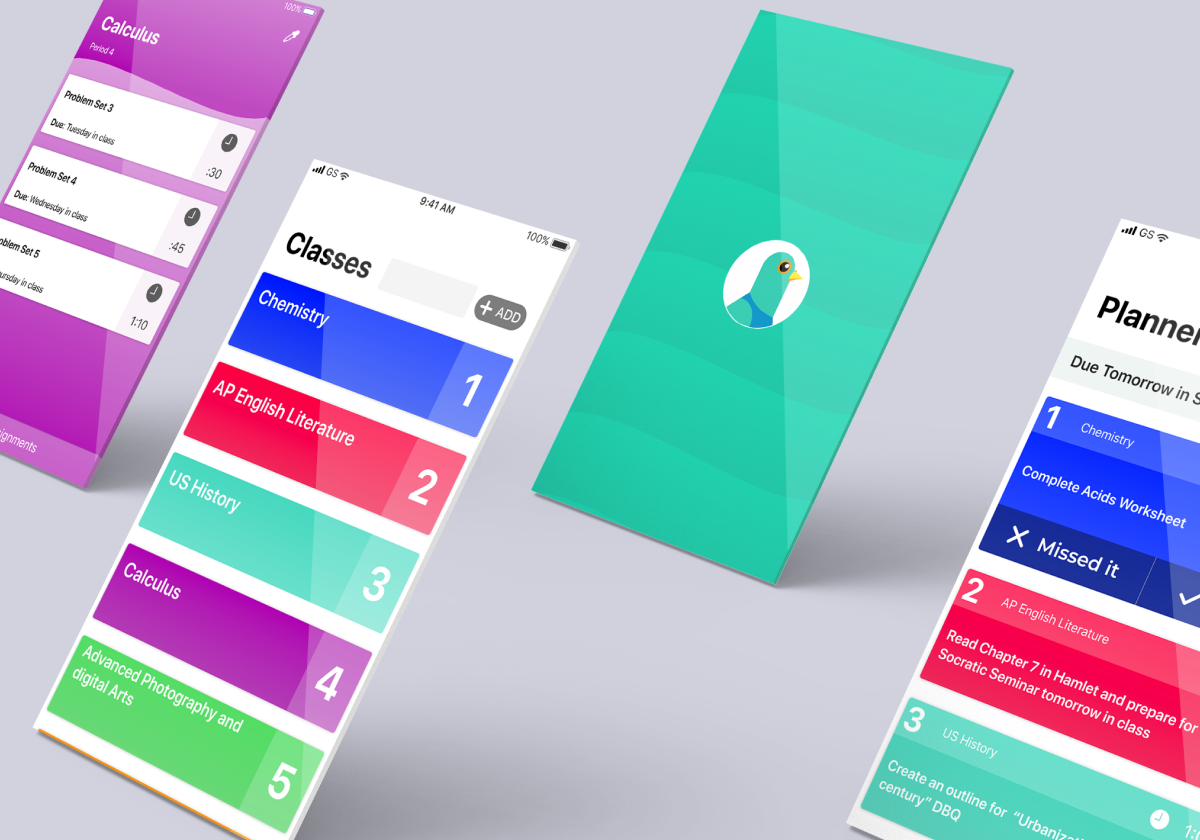
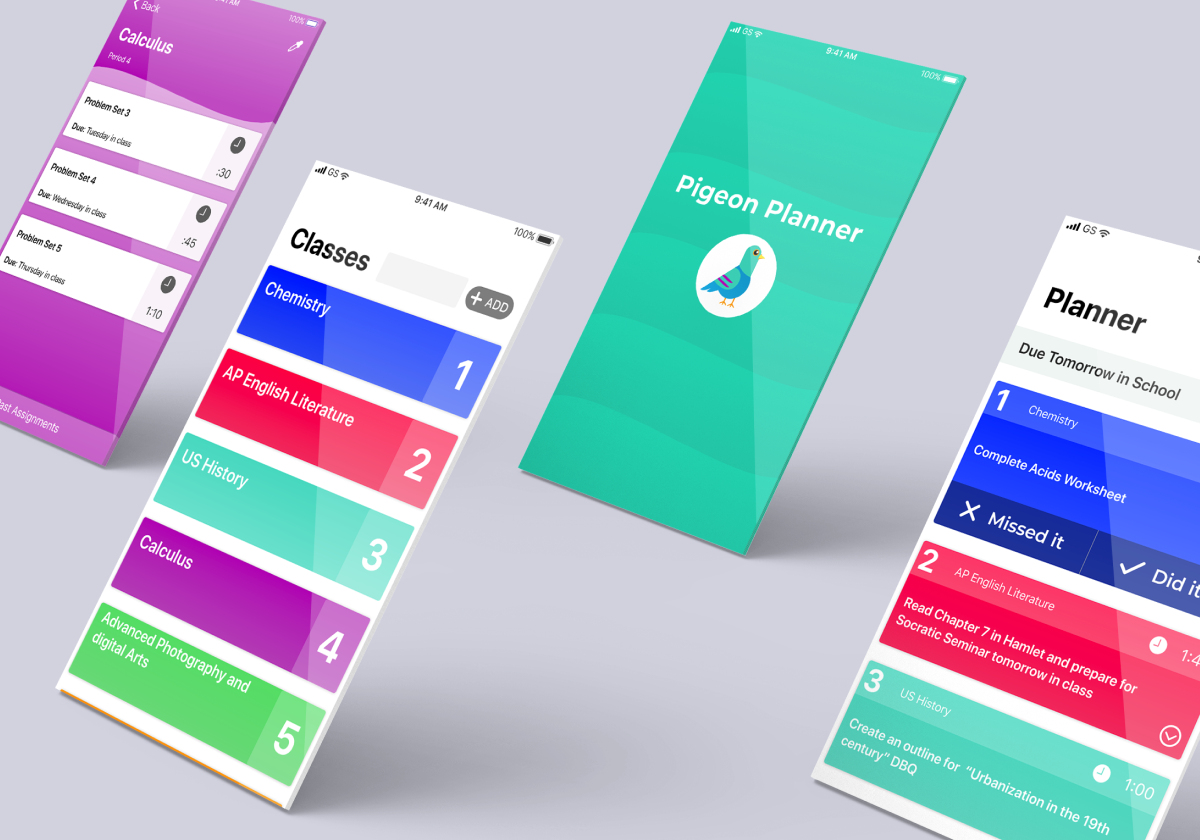
added the rest of the case study

diff --git a/pigeon.html b/pigeon.html
@@ -379,80 +379,77 @@
 					<section class="design">
 						<div class="container">
 		          <h4 class-"section-sub-title">
-		            PROTOTYPE & USER TESTS - IN PROGRESS
+		            PROTOTYPE & USER TESTING
 		          </h4>
-						</div>
-						<br></br>
-						<br></br>
-					</section>
-							<!--
 		          <p>
-		            With a solutions focus, and a direction for branding, I built a high fidelity mockup and did user testing. Refining my visual design though several iterations to get the refined, high quality feel that I desired for this product. <br></br>
+		            With a strong solution mapped through wireframes and a clear direction for the brand, I built high fidelity mockups. I used invision to build a prototype and test the app with students and teachers. <br></br>
 		          </p>
 		          <div class="pain_point">
 		            <ul>
-		              <h5> <strong>Pain Point 1: The Task Bar</strong></h5>
-		                <li>The connection between the tasks in a document and the task list sidebar are not clear.</li>
-		                <li>While it is nice to have the option to see tasks assigned to all users, I want an option to filter tasks to only me.</li>
+		              <h5> <strong>Qualitative Feedback</strong></h5>
+		                <li><strong>Student:</strong> I can finish homework faster than teachers think it will take me.</li>
+		                <li><strong>Teacher:</strong> To build time management skills for students, they should be able to change time estimates for themselves (and add missing time estimates).</li>
 		              <h5> <strong>Solution</strong></h5>
-		                <li>When a tasks is hovered over in the document or in the sidebar it will ‘light up’ in both locations making the connection clear.</li>
-		                <li>Create a filter feature that allows users to filter and sort tasks in the sidebar making it more user friendly and useful.</li>
+		                <li>I added the ability for student to change/add time estimates.</li>
 		            </ul>
 		          </div>
 		      </div>
 		    </section>
 
-			        <div class="pain-point">
-			              <img src="assets/images/pp-task-bar-before.png" alt="Pain Point Before"/>
-			              <i class="ion-arrow-right-a"></i>
-			              <img src="assets/images/pp-task-bar-after.png" alt="Pain Point After"/>
-			        </div>
+						<div class="wireframes-pic broken-up">
+							<div class="row">
+								<div class="col-lg-3">
+									<img src="assets/images/pigeon-time-change-1.png" alt="Checkbox High Fidelity Image"/>
+								</div>
+								<div class="col-lg-3">
+									<img src="assets/images/pigeon-time-change-2.png" alt="Checkbox High Fidelity Image"/>
+								</div>
+								<div class="col-lg-3">
+									<img src="assets/images/pigeon-time-change-3.png" alt="Checkbox High Fidelity Image"/>
+								</div>
+								<div class="col-lg-3">
+									<img src="assets/images/pigeon-time-change-4.png" alt="Checkbox High Fidelity Image"/>
+								</div>
+							</div>
+						</div>
 
 		    <section class="design">
 		      <div class="container">
 		        <div class="pain_point">
 		          <ul>
-		            <h5> <strong>Pain Point 2: The Dashboard</strong></h5>
-		              <li>I don’t know where I can find a menu of options for each file. This required tester to point to menu arrow.</li>
+		            <h5> <strong>Qualititive Feedback</strong></h5>
+		              <li>Teachers want access to student information. They want to see who has enrolled in their classes, whether they have finished the assignment(s) in their class and how much homework students have each night for all classes.</li>
 		            <h5> <strong>Solution</strong></h5>
-		              <li>Simplify the visual design of dashboard and label the menu arrow ‘actions’.</li>
+		              <li>Give teachers access to student information and make the teacher view more comprehensive. </li>
 		          </ul>
 		        </div>
 		      </div>
 		    </section>
 
-			        <div class="pain-point">
-			              <img src="assets/images/pp-dashboard-before.png" alt="Pain Point Before"/>
-			              <i class="ion-arrow-right-a"></i>
-			              <img src="assets/images/pp-dashboard-after.png" alt="Pain Point After"/>
-			        </div>
-
-		    <section class="design">
-		      <div class="container">
-		        <div class="pain_point">
-		          <ul>
-		            <h5> <strong>Pain Point 3: Design is too busy</strong></h5>
-		              <li>Several screens feel very busy, and I’m not sure where to focus.</li>
-		            <h5> <strong>Solution</strong></h5>
-		              <li>Refined visual design and thoughtful use of darkened background with modals.</li>
-		          </ul>
-		        </div>
-		      </div>
-		    </section>
-
-			        <div class="pain-point">
-			              <img src="assets/images/pp-visual-design-before.png" alt="Pain Point Before"/>
-			              <i class="ion-arrow-right-a"></i>
-			              <img src="assets/images/pp-visual-design-after.png" alt="Pain Point After"/>
-			        </div>
+				<div class="wireframes-pic broken-up">
+					<div class="row">
+						<div class="col-lg-3">
+							<img src="assets/images/pigeon-student-info-1.png" alt="Checkbox High Fidelity Image"/>
+						</div>
+						<div class="col-lg-3">
+							<img src="assets/images/pigeon-student-info-2.png" alt="Checkbox High Fidelity Image"/>
+						</div>
+						<div class="col-lg-3">
+							<img src="assets/images/pigeon-student-info-3.png" alt="Checkbox High Fidelity Image"/>
+						</div>
+						<div class="col-lg-3">
+							<img src="assets/images/pigeon-student-info-4.png" alt="Checkbox High Fidelity Image"/>
+						</div>
+					</div>
+				</div>
 
         <section class="design high-fidelity">
           <div class="container">
     				<h4 class-"section-sub-title">
-    					HIGH FIDELITY MOCKUPS
+    					HIGH FIDELITY MOCKUP
     				</h4>
     				<p>
-    					With a solutions focus, and a direction for branding, I built a high fidelity mockup and did user testing. Refining my visual design though several iterations to get the refined, high quality feel that I desired for this product. <br></br>
+    					Taking user feedback into account, I built the final version of Pigeon Planner. <br></br>
     					</p>
 						</div>
 
@@ -460,29 +457,34 @@
 			</div>
 
 			<div class="hifi-prototype">
-				<a href="https://invis.io/UKFN2X8V87X" target="_blank"><input class="btn btn-sub" value="View Prototype"></a>
+				<a href="https://invis.io/NRGYLBK7P2A" target="_blank"><input class="btn btn-sub" value="View Prototype"></a>
 			</div>
 
-    					<div class="hifi-pic">
-								<div class="row">
-									<div class="col-lg-6">
-    								<img src="assets/images/hifi-image-1.png" alt="Checkbox High Fidelity Image"/>
-									</div>
-									<div class="col-lg-6">
-										<div class="row">
-											<div class="col-md-12">
-    										<img src="assets/images/hifi-smallpic-1.png" alt="Checkbox High Fidelity Image"/>
-											</div>
-											<div class="col-md-12">
-    										<img src="assets/images/hifi-smallpic2.png" alt="Checkbox High Fidelity Image"/>
-											</div>
-											<div class="col-md-12">
-    										<img src="assets/images/hifi-smallpic3.png" alt="Checkbox High Fidelity Image"/>
-											</div>
-										</div>
-									</div>
-								</div>
-    					</div>
+					<div class="wireframes-pic broken-up">
+						<div class="row">
+							<div class="col-lg-4">
+								<img src="assets/images/pigeon-hifi-1.png" alt="Checkbox High Fidelity Image"/>
+							</div>
+							<div class="col-lg-4">
+								<img src="assets/images/pigeon-hifi-2.png" alt="Checkbox High Fidelity Image"/>
+							</div>
+							<div class="col-lg-4">
+								<img src="assets/images/pigeon-hifi-3.png" alt="Checkbox High Fidelity Image"/>
+							</div>
+						</div>
+						<div class="row">
+							<div class="col-lg-4">
+								<img src="assets/images/pigeon-hifi-4.png" alt="Checkbox High Fidelity Image"/>
+							</div>
+							<div class="col-lg-4">
+								<img src="assets/images/pigeon-hifi-5.png" alt="Checkbox High Fidelity Image"/>
+							</div>
+							<div class="col-lg-4">
+								<img src="assets/images/pigeon-hifi-6.png" alt="Checkbox High Fidelity Image"/>
+							</div>
+						</div>
+					</div>
+
 		<div class="body-copy">
   		<section class="takeaways">
   			<div class="container section-wrapper">
@@ -491,20 +493,19 @@
   					<br></br>
   				</h4>
   				<p>
-  					CheckBox was my first comprehensive project as a designer and through this project, I learned a lot about my own process.</p>
-
+  					Pigeon Planner was a product that allowed me to solve problems I experienced in my former career. I loved building a solution for students and teachers.</p>
   					<ul>
-  						<li><strong>Listen to users.</strong> Focusing my design on user needs rather than my own assumptions is critical. I am building products for other people to use and it was important for me to listen carefully to what users were telling me along the way. </li>
-  						<li><strong>Begin with a minimum viable product.</strong> The potential features for a product such as this one are vast and starting with a baseline helped me both stay focused on what users were asking for, rather than creating a replica of a competitor’s product.</li>
-  						<li><strong>Keep it simple.</strong> Creating a project that can compete in an already saturated space was intimidating at first. I wondered how I could differentiate myself from well known comprehensive competitors - the answer was a simplified design that worked on developing features users were asking for. By making task assignment the cornerstone of CheckBox I was able to differentiate my product to meet the needs of a particular audience.</li>
-  						<li><strong>There is more work to do.</strong> I created a collaborative solution for individuals and small groups planning events - tracking the tasks of a major work project would be better done in a more robust task management platform. My next moves with CheckBox would be to build a ‘project’ option to allow my product to compete with task management platforms such as Asana, Trello, Lira, etc. I met the goal of this iteration, but perfecting this project is a continuous process.</li>
-  						<li><strong>I can do this.</strong> I have the ability to create a product that users are asking for and they want. Users were able to complete the actions I requested of them and were able to name how this product could be used in their lives.</li>
+  						<li><strong>Keep users at the center of the design.</strong> Robust user feedback in the research phase helps provide a strong foundation for the project; returning often to that data will ensure the design is solving user problems. Taking my time with user tests and understanding how users experience my product ensures the final product is fully meeting user needs.</li>
+  						<li><strong>Stay focused.</strong> Trying to deliver everything users ask for can pull the final product away from minimum viable product. It was tempting to build features for every request during user testing, but can convolute the solution.</li>
+  						<li><strong>Consider Integration.</strong> I think this product would be the ultimate solution if it was integrated with other products that are solving user problems. Google Classroom provides a fantastic and comprehensive experience for teachers to share classwork, assignments and resources but it doesn’t have a simple ‘homework assignment’ view. This could interact with google classroom to provide a solution without adding more work for teachers.</li>
+  						<li><strong>I love this work.</strong> Doing work that I care about is inspiring and fun. I want to work for a company that I believe in on products that matter to people. I am so excited for the work that lies ahead for me.</li>
   					</ul>
 						</div>
 				</section>
 			</div>
-		-->
+
 				<div class=last-section>
+						<h2>PIGEON PLANNER</h2>
 						<div class="pigeon-logo">
 							<img src="assets/images/pigeon-circle-logo.png" alt="checkbox logo"/>
 						</div>

diff --git a/assets/css/pigeon_planner.css b/assets/css/pigeon_planner.css
@@ -988,7 +988,7 @@ section h4 {
 	}
 
 	.pigeon-logo img{
-		margin-top: 5%;
+		margin-top: 1%;
 		width: 10%;
 	}
 
